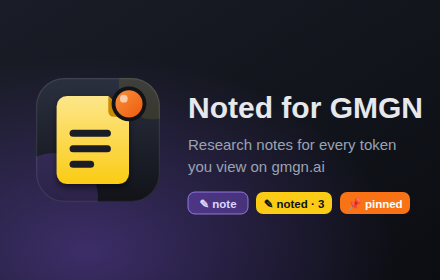
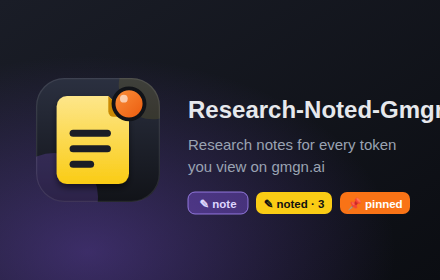
Rename the product to Research-Noted-Gmgn
Extension name in all locales, page titles, popup/dashboard/panel
headers, Grok panel, Markdown export title, promo tile, package and
export file names, README, privacy policy and store listing. Internal
identifiers are unchanged. Version 0.4.1.

Claude-Session: https://claude.ai/code/session_0174wcpqv3PPXBc7TtfHRh6s

Changed region(s): [[0.4136, 0.3429, 1.0, 0.4571]]

diff --git a/src/lib/i18n.js b/src/lib/i18n.js
@@ -8,7 +8,7 @@
   const DEFAULT = 'en';
 
   const en = {
-    app_name: 'Noted for GMGN',
+    app_name: 'Research-Noted-Gmgn',
     dashboard: 'Dashboard', close: 'Close (Esc)', delete: 'Delete', add: 'Add',
     copy: 'copy', copied: 'copied', copy_failed: 'failed', saved: '✓ saved',
     pin_title: 'Pin this project', copy_addr: 'Copy address', mc_now: 'Current MC ≈ {mc}', mc_short: 'MC',
@@ -25,9 +25,9 @@
     just_now: 'just now', minutes_ago: '{n} min ago', hours_ago: '{n} h ago', days_ago: '{n} d ago', weeks_ago: '{n} w ago',
     st_watching: 'Watching', st_researching: 'Researching', st_holding: 'Holding', st_sold: 'Sold', st_passed: 'Passed', st_dead: 'Dead / Rug',
     et_note: 'Note', et_research: 'Research', et_news: 'News / Update', et_buy: 'Buy', et_sell: 'Sell', et_alert: 'Alert', et_link: 'Link',
-    badge_title: 'Add a note for this project (Noted)', tip_empty: 'No summary yet — click to add', entries_count: '{n} entries',
+    badge_title: 'Add a note for this project (Research-Noted-Gmgn)', tip_empty: 'No summary yet — click to add', entries_count: '{n} entries',
     fab_note: 'Note', fab_title: 'Open the note for this token (Alt+N)',
-    toast_open_token: 'Open a token page on gmgn, then press Alt+N or click the Noted button.',
+    toast_open_token: 'Open a token page on gmgn, then press Alt+N or click the Research-Noted-Gmgn button.',
     panel_empty_1: 'Click the ✎ button next to a token on gmgn.ai, the floating button on a token page, or press Alt+N.',
     panel_empty_2: 'This panel sits outside the page, so it never covers gmgn. Drag its edge to resize.',
     open_dashboard: '📚 Open Dashboard',
@@ -49,14 +49,14 @@
     grok_linked: 'Researching {symbol}', grok_unlinked: 'Not linked to a project',
     grok_unlinked_hint: 'Open Grok from a note\'s "Research with Grok" button, or link a project below.',
     grok_hint: 'Press Enter to send the prefilled prompt, then capture the answer here.',
-    grok_capture: 'Capture last answer', grok_selection: 'Use selected text', grok_save: 'Save to Noted', grok_saved: 'Saved to {symbol}',
+    grok_capture: 'Capture last answer', grok_selection: 'Use selected text', grok_save: 'Save to Research-Noted-Gmgn', grok_saved: 'Saved to {symbol}',
     grok_open_dashboard: 'Open in Dashboard', grok_link: 'Link', grok_link_ph: 'gmgn token URL', grok_recent: 'Recent projects…',
     grok_empty: 'Nothing captured yet. Click Capture, or select the answer text and click Use selected text.', grok_source: 'Source', grok_nothing: 'No text to save.',
-    md_title: 'Noted for GMGN — export {date}', md_address: 'Address', md_status: 'Status', md_conviction: 'Conviction', md_tags: 'Tags', md_summary: 'Summary', md_timeline: 'Timeline',
+    md_title: 'Research-Noted-Gmgn — export {date}', md_address: 'Address', md_status: 'Status', md_conviction: 'Conviction', md_tags: 'Tags', md_summary: 'Summary', md_timeline: 'Timeline',
   };
 
   const vi = {
-    app_name: 'Noted for GMGN',
+    app_name: 'Research-Noted-Gmgn',
     dashboard: 'Dashboard', close: 'Đóng (Esc)', delete: 'Xoá', add: 'Thêm',
     copy: 'copy', copied: 'đã copy', copy_failed: 'lỗi', saved: '✓ đã lưu',
     pin_title: 'Ghim dự án (pin)', copy_addr: 'Copy địa chỉ', mc_now: 'MC hiện tại ≈ {mc}', mc_short: 'MC',
@@ -73,9 +73,9 @@
     just_now: 'vừa xong', minutes_ago: '{n} phút trước', hours_ago: '{n} giờ trước', days_ago: '{n} ngày trước', weeks_ago: '{n} tuần trước',
     st_watching: 'Theo dõi', st_researching: 'Đang research', st_holding: 'Đang giữ', st_sold: 'Đã bán', st_passed: 'Bỏ qua', st_dead: 'Dead / Rug',
     et_note: 'Ghi chú', et_research: 'Research', et_news: 'Tin / Update', et_buy: 'Mua', et_sell: 'Bán', et_alert: 'Cảnh báo', et_link: 'Link',
-    badge_title: 'Ghi chú dự án này (Noted)', tip_empty: 'Chưa có tóm tắt — bấm để thêm', entries_count: '{n} mốc',
+    badge_title: 'Ghi chú dự án này (Research-Noted-Gmgn)', tip_empty: 'Chưa có tóm tắt — bấm để thêm', entries_count: '{n} mốc',
     fab_note: 'Ghi chú', fab_title: 'Mở ghi chú cho token này (Alt+N)',
-    toast_open_token: 'Hãy mở một trang token trên gmgn rồi bấm Alt+N hoặc nút Noted.',
+    toast_open_token: 'Hãy mở một trang token trên gmgn rồi bấm Alt+N hoặc nút Research-Noted-Gmgn.',
     panel_empty_1: 'Bấm nút ✎ cạnh một token trên gmgn.ai, nút nổi trên trang token, hoặc Alt+N.',
     panel_empty_2: 'Panel này nằm ngoài trang nên không che gmgn. Kéo mép để đổi độ rộng.',
     open_dashboard: '📚 Mở Dashboard',
@@ -97,14 +97,14 @@
     grok_linked: 'Đang research {symbol}', grok_unlinked: 'Chưa gắn với dự án nào',
     grok_unlinked_hint: 'Mở Grok từ nút "Research với Grok" trong ghi chú, hoặc gắn dự án bên dưới.',
     grok_hint: 'Nhấn Enter để gửi prompt đã điền sẵn, rồi bắt câu trả lời ở đây.',
-    grok_capture: 'Bắt câu trả lời mới nhất', grok_selection: 'Dùng phần đang bôi đen', grok_save: 'Lưu vào Noted', grok_saved: 'Đã lưu vào {symbol}',
+    grok_capture: 'Bắt câu trả lời mới nhất', grok_selection: 'Dùng phần đang bôi đen', grok_save: 'Lưu vào Research-Noted-Gmgn', grok_saved: 'Đã lưu vào {symbol}',
     grok_open_dashboard: 'Mở trong Dashboard', grok_link: 'Gắn', grok_link_ph: 'URL token gmgn', grok_recent: 'Dự án gần đây…',
     grok_empty: 'Chưa bắt được gì. Bấm Bắt, hoặc bôi đen câu trả lời rồi bấm Dùng phần đang bôi đen.', grok_source: 'Nguồn', grok_nothing: 'Không có nội dung để lưu.',
-    md_title: 'Noted for GMGN — export {date}', md_address: 'Địa chỉ', md_status: 'Trạng thái', md_conviction: 'Conviction', md_tags: 'Tags', md_summary: 'Tóm tắt', md_timeline: 'Timeline',
+    md_title: 'Research-Noted-Gmgn — export {date}', md_address: 'Địa chỉ', md_status: 'Trạng thái', md_conviction: 'Conviction', md_tags: 'Tags', md_summary: 'Tóm tắt', md_timeline: 'Timeline',
   };
 
   const zh = {
-    app_name: 'Noted for GMGN',
+    app_name: 'Research-Noted-Gmgn',
     dashboard: '仪表盘', close: '关闭 (Esc)', delete: '删除', add: '添加',
     copy: '复制', copied: '已复制', copy_failed: '失败', saved: '✓ 已保存',
     pin_title: '置顶该项目', copy_addr: '复制地址', mc_now: '当前市值 ≈ {mc}', mc_short: '市值',
@@ -121,9 +121,9 @@
     just_now: '刚刚', minutes_ago: '{n} 分钟前', hours_ago: '{n} 小时前', days_ago: '{n} 天前', weeks_ago: '{n} 周前',
     st_watching: '观察中', st_researching: '研究中', st_holding: '持有中', st_sold: '已卖出', st_passed: '已放弃', st_dead: '归零 / Rug',
     et_note: '笔记', et_research: '研究', et_news: '新闻 / 更新', et_buy: '买入', et_sell: '卖出', et_alert: '警告', et_link: '链接',
-    badge_title: '为该项目添加笔记 (Noted)', tip_empty: '暂无摘要 — 点击添加', entries_count: '{n} 条记录',
+    badge_title: '为该项目添加笔记 (Research-Noted-Gmgn)', tip_empty: '暂无摘要 — 点击添加', entries_count: '{n} 条记录',
     fab_note: '笔记', fab_title: '打开该代币的笔记 (Alt+N)',
-    toast_open_token: '请先在 gmgn 打开一个代币页面，再按 Alt+N 或点击 Noted 按钮。',
+    toast_open_token: '请先在 gmgn 打开一个代币页面，再按 Alt+N 或点击 Research-Noted-Gmgn 按钮。',
     panel_empty_1: '在 gmgn.ai 点击代币旁的 ✎ 按钮、代币页的悬浮按钮，或按 Alt+N。',
     panel_empty_2: '此面板位于页面之外，不会遮挡 gmgn。拖动边缘可调整宽度。',
     open_dashboard: '📚 打开仪表盘',
@@ -145,10 +145,10 @@
     grok_linked: '正在研究 {symbol}', grok_unlinked: '未关联任何项目',
     grok_unlinked_hint: '请从笔记中的“用 Grok 研究”按钮打开 Grok，或在下方关联项目。',
     grok_hint: '按 Enter 发送已填好的提示词，然后在这里捕获回答。',
-    grok_capture: '捕获最新回答', grok_selection: '使用选中文本', grok_save: '保存到 Noted', grok_saved: '已保存到 {symbol}',
+    grok_capture: '捕获最新回答', grok_selection: '使用选中文本', grok_save: '保存到 Research-Noted-Gmgn', grok_saved: '已保存到 {symbol}',
     grok_open_dashboard: '在仪表盘中打开', grok_link: '关联', grok_link_ph: 'gmgn 代币链接', grok_recent: '最近的项目…',
     grok_empty: '尚未捕获内容。点击“捕获”，或选中回答文本后点击“使用选中文本”。', grok_source: '来源', grok_nothing: '没有可保存的内容。',
-    md_title: 'Noted for GMGN — 导出 {date}', md_address: '地址', md_status: '状态', md_conviction: '信心', md_tags: '标签', md_summary: '摘要', md_timeline: '时间线',
+    md_title: 'Research-Noted-Gmgn — 导出 {date}', md_address: '地址', md_status: '状态', md_conviction: '信心', md_tags: '标签', md_summary: '摘要', md_timeline: '时间线',
   };
 
   const DICT = { en, vi, zh };

diff --git a/src/content/grok.js b/src/content/grok.js
@@ -1,4 +1,4 @@
-// Content script trên trang Grok (x.com/i/grok, grok.com): panel nổi "Save to Noted".
+// Content script trên trang Grok (x.com/i/grok, grok.com): panel nổi "Save to Research-Noted-Gmgn".
 // Bắt câu trả lời mới nhất (heuristic không phụ thuộc class của X) hoặc dùng phần người dùng bôi đen,
 // rồi gửi background lưu vào timeline của token đã gắn với tab này.
 (() => {
@@ -50,9 +50,9 @@ input{flex:1 1 160px}
     const linked = !!(ctxInfo && ctxInfo.token);
     shadow.innerHTML = `<style>${CSS}</style>
       <div class="g">
-        <button class="pill" type="button">✨ Noted${linked ? ` · <span class="sym">${I.t('grok_linked', { symbol: esc(ctxInfo.symbol || S.shortAddress(ctxInfo.token.address)) })}</span>` : ''}</button>
+        <button class="pill" type="button">✨ ${esc(t('app_name'))}${linked ? ` · <span class="sym">${I.t('grok_linked', { symbol: esc(ctxInfo.symbol || S.shortAddress(ctxInfo.token.address)) })}</span>` : ''}</button>
         <div class="box" ${linked ? '' : 'hidden'}>
-          <div class="head"><b>✨ Noted</b>${linked ? `<span class="sym">${esc(ctxInfo.symbol || S.shortAddress(ctxInfo.token.address))}</span><span class="hint">${esc(S.chainLabel(ctxInfo.token.chain))}</span>` : `<span class="hint">${esc(t('grok_unlinked'))}</span>`}<button class="x" type="button" title="${esc(t('close_plain'))}">×</button></div>
+          <div class="head"><b>✨ ${esc(t('app_name'))}</b>${linked ? `<span class="sym">${esc(ctxInfo.symbol || S.shortAddress(ctxInfo.token.address))}</span><span class="hint">${esc(S.chainLabel(ctxInfo.token.chain))}</span>` : `<span class="hint">${esc(t('grok_unlinked'))}</span>`}<button class="x" type="button" title="${esc(t('close_plain'))}">×</button></div>
           <div class="body">
             ${linked ? `<div class="hint">${esc(t('grok_hint'))}</div>` : `<div class="hint">${esc(t('grok_unlinked_hint'))}</div>
               <div class="row"><select class="recent"><option value="">${esc(t('grok_recent'))}</option></select></div>

diff --git a/src/lib/storage.js b/src/lib/storage.js
@@ -166,13 +166,13 @@
   async function exportJSON() {
     const projects = await getAll();
     projects.sort((a, b) => b.updatedAt - a.updatedAt);
-    return { app: 'noted-for-gmgn', version: 1, exportedAt: new Date().toISOString(), projects };
+    return { app: 'research-noted-gmgn', version: 1, exportedAt: new Date().toISOString(), projects };
   }
 
   // Gộp dữ liệu import vào dữ liệu hiện có: bản mới hơn thắng, timeline được gộp theo id.
   async function importJSON(data) {
     const incoming = Array.isArray(data) ? data : (data && Array.isArray(data.projects) ? data.projects : null);
-    if (!incoming) throw new Error('Not a Noted export file.');
+    if (!incoming) throw new Error('Not a Research-Noted-Gmgn export file.');
     const existingList = await getAll();
     const existing = new Map(existingList.map(p => [p.key, p]));
     const toWrite = {};

diff --git a/src/dashboard/dashboard.html b/src/dashboard/dashboard.html
@@ -3,7 +3,7 @@
 <head>
   <meta charset="utf-8">
   <meta name="viewport" content="width=device-width, initial-scale=1">
-  <title>Noted — Dashboard</title>
+  <title>Research-Noted-Gmgn — Dashboard</title>
   <link rel="stylesheet" href="dashboard.css">
 </head>
 <body>
@@ -11,7 +11,7 @@
     <aside class="side">
       <header class="side-head">
         <div class="brand">
-          <h1>📝 Noted <span class="sub">for GMGN</span></h1>
+          <h1>📝 Research-Noted-Gmgn <span class="sub">Dashboard</span></h1>
           <div class="stats" id="stats"></div>
         </div>
         <input id="search" type="search" data-i18n-ph="search_ph" autocomplete="off">

diff --git a/scripts/store-assets.js b/scripts/store-assets.js
@@ -45,7 +45,7 @@ const PROMO_SVG = `<svg xmlns="http://www.w3.org/2000/svg" width="440" height="2
   <rect width="440" height="280" fill="url(#glow)"/>
   ${MARK(36, 78, 124)}
   <g font-family="Inter, 'Segoe UI', Roboto, 'Helvetica Neue', Arial, sans-serif" fill="#e6e8ec">
-    <text x="188" y="118" font-size="30" font-weight="700">Noted for GMGN</text>
+    <text x="188" y="118" font-size="24" font-weight="700">Research-Noted-Gmgn</text>
     <text x="188" y="150" font-size="15" fill="#9aa3b2">Research notes for every token</text>
     <text x="188" y="172" font-size="15" fill="#9aa3b2">you view on gmgn.ai</text>
     <g transform="translate(188 192)">

diff --git a/src/dashboard/dashboard.js b/src/dashboard/dashboard.js
@@ -145,11 +145,11 @@
 
   ui.exportJson.addEventListener('click', async () => {
     const data = await S.exportJSON();
-    download(`noted-gmgn-${stamp()}.json`, JSON.stringify(data, null, 2), 'application/json');
+    download(`research-noted-gmgn-${stamp()}.json`, JSON.stringify(data, null, 2), 'application/json');
   });
 
   ui.exportMd.addEventListener('click', async () => {
-    download(`noted-gmgn-${stamp()}.md`, S.toMarkdown(await S.getAll()), 'text/markdown');
+    download(`research-noted-gmgn-${stamp()}.md`, S.toMarkdown(await S.getAll()), 'text/markdown');
   });
 
   ui.importJson.addEventListener('click', () => ui.importFile.click());

diff --git a/src/background.js b/src/background.js
@@ -33,7 +33,7 @@ function openNote({ tabId, token, ctx, mode, fromContent }, sendResponse) {
   if ((mode || uiMode) === 'drawer' || !chrome.sidePanel) { drawer(); return; }
   chrome.sidePanel.open({ tabId })
     .then(async () => { await remember(tabId, token, ctx); sendResponse({ ok: true, mode: 'panel' }); })
-    .catch(err => { console.warn('[Noted] sidePanel.open thất bại, dùng drawer:', err && err.message); drawer(); });
+    .catch(err => { console.warn('[Research-Noted-Gmgn] sidePanel.open thất bại, dùng drawer:', err && err.message); drawer(); });
 }
 
 chrome.runtime.onMessage.addListener((msg, sender, sendResponse) => {

diff --git a/src/popup/popup.html b/src/popup/popup.html
@@ -2,7 +2,7 @@
 <html lang="en">
 <head>
   <meta charset="utf-8">
-  <title>Noted</title>
+  <title>Research-Noted-Gmgn</title>
   <style>
     body{margin:0;width:260px;background:#111318;color:#e6e8ec;font:13px/1.45 -apple-system,BlinkMacSystemFont,"Segoe UI",Roboto,Arial,sans-serif}
     .wrap{padding:12px}
@@ -21,7 +21,7 @@
 </head>
 <body>
   <div class="wrap">
-    <h1>📝 Noted for GMGN</h1>
+    <h1>📝 Research-Noted-Gmgn</h1>
     <div class="stats" id="stats">…</div>
     <button id="note-this" class="primary" hidden data-i18n="note_this"></button>
     <button id="open-dash" data-i18n="open_dashboard"></button>

diff --git a/src/content/gmgn.js b/src/content/gmgn.js
@@ -1,5 +1,5 @@
 // Content script cho gmgn.ai:
-//  - quét mọi link /{chain}/token/{address} (danh sách theo dõi, trending, meme...) và gắn nút Noted cạnh symbol
+//  - quét mọi link /{chain}/token/{address} (danh sách theo dõi, trending, meme...) và gắn nút Research-Noted-Gmgn cạnh symbol
 //  - trang token: hiện nút nổi (FAB) cho token đang xem
 //  - bấm nút: gửi background mở Chrome Side Panel (nằm ngoài trang, không che gmgn);
 //    nếu không mở được hoặc người dùng chọn "overlay" thì dùng drawer Shadow DOM trong trang

diff --git a/src/panel/panel.html b/src/panel/panel.html
@@ -3,13 +3,13 @@
 <head>
   <meta charset="utf-8">
   <meta name="viewport" content="width=device-width, initial-scale=1">
-  <title>Noted</title>
+  <title>Research-Noted-Gmgn</title>
   <link rel="stylesheet" href="panel.css">
 </head>
 <body>
   <div class="empty" id="empty">
     <div class="empty-icon">📝</div>
-    <p><b>Noted for GMGN</b></p>
+    <p><b>Research-Noted-Gmgn</b></p>
     <p data-i18n="panel_empty_1"></p>
     <p class="muted" data-i18n="panel_empty_2"></p>
     <button id="open-dash" data-i18n="open_dashboard"></button>

diff --git a/src/popup/popup.js b/src/popup/popup.js
@@ -40,7 +40,7 @@
     const data = await S.exportJSON();
     const url = URL.createObjectURL(new Blob([JSON.stringify(data, null, 2)], { type: 'application/json' }));
     const a = document.createElement('a');
-    a.href = url; a.download = `noted-gmgn-${new Date().toISOString().slice(0, 10)}.json`; a.click();
+    a.href = url; a.download = `research-noted-gmgn-${new Date().toISOString().slice(0, 10)}.json`; a.click();
     setTimeout(() => URL.revokeObjectURL(url), 5000);
   });
 })();

diff --git a/scripts/pack.py b/scripts/pack.py
@@ -2,7 +2,7 @@
 """Đóng gói extension thành file ZIP để tải lên Chrome Web Store.
 
 Chỉ gồm những file cần để chạy (manifest.json, icons/, src/), manifest.json nằm ngay ở gốc ZIP
-như Web Store yêu cầu. Chạy: python3 scripts/pack.py  ->  dist/noted-for-gmgn-<version>.zip
+như Web Store yêu cầu. Chạy: python3 scripts/pack.py  ->  dist/research-noted-gmgn-<version>.zip
 """
 import json, os, sys, zipfile
 
@@ -35,7 +35,7 @@ def main():
 
     out_dir = os.path.join(ROOT, 'dist')
     os.makedirs(out_dir, exist_ok=True)
-    out = os.path.join(out_dir, f"noted-for-gmgn-{m['version']}.zip")
+    out = os.path.join(out_dir, f"research-noted-gmgn-{m['version']}.zip")
     count = 0
     with zipfile.ZipFile(out, 'w', zipfile.ZIP_DEFLATED) as z:
         for item in INCLUDE:
